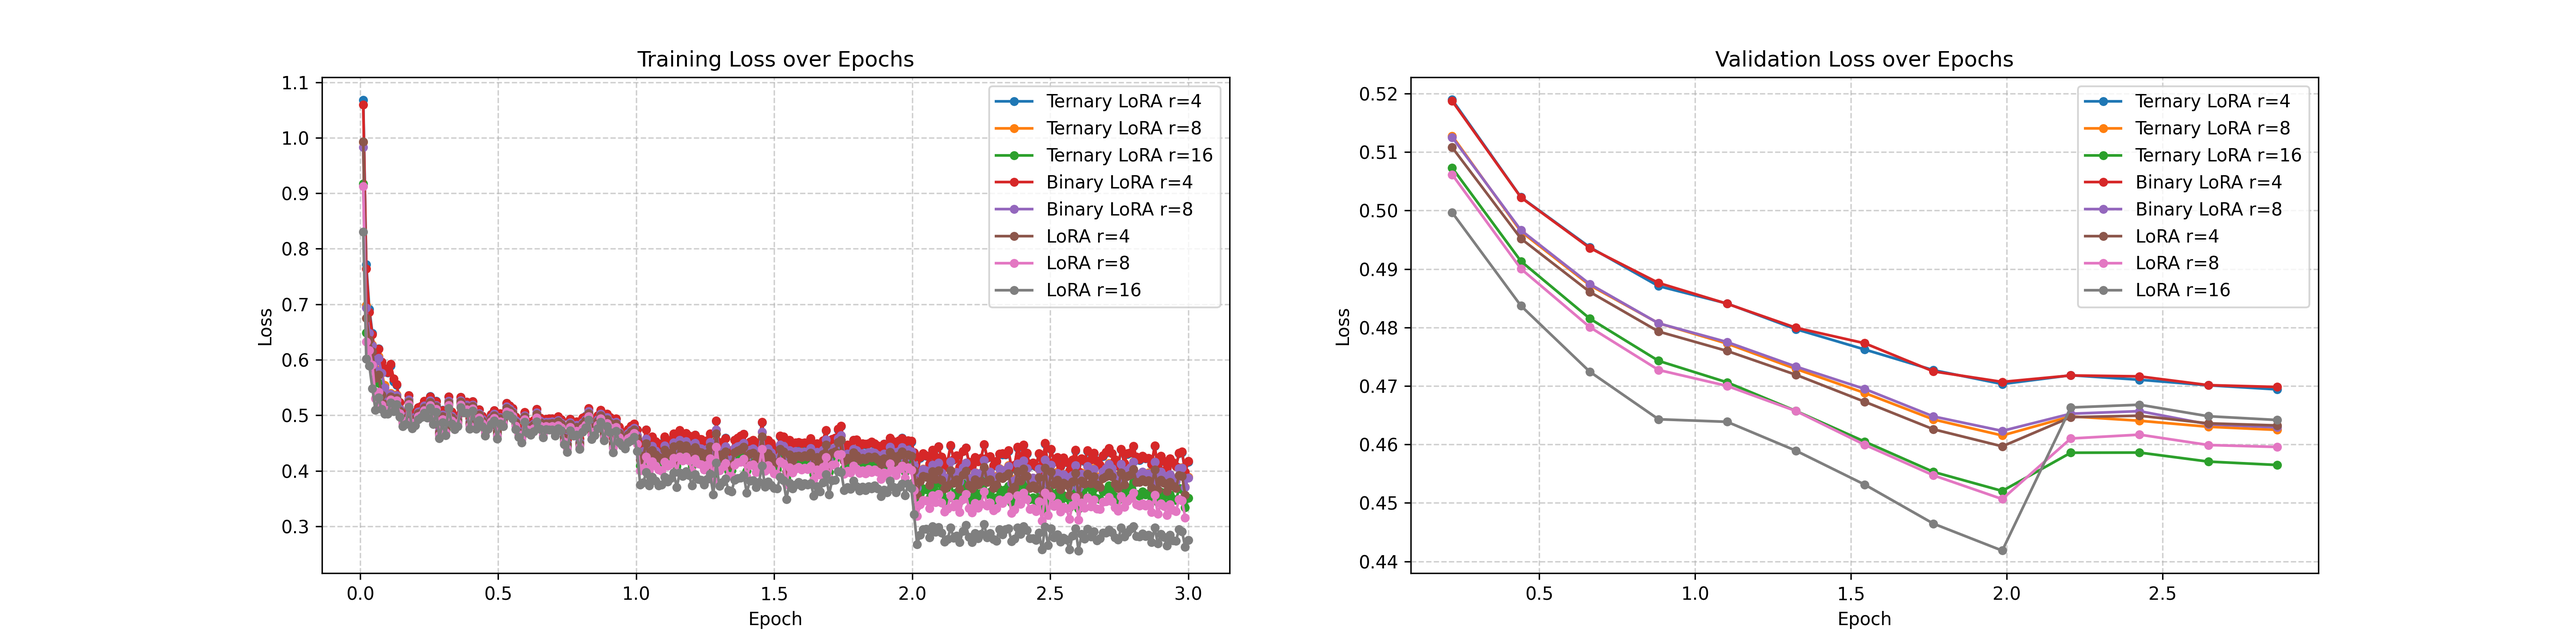
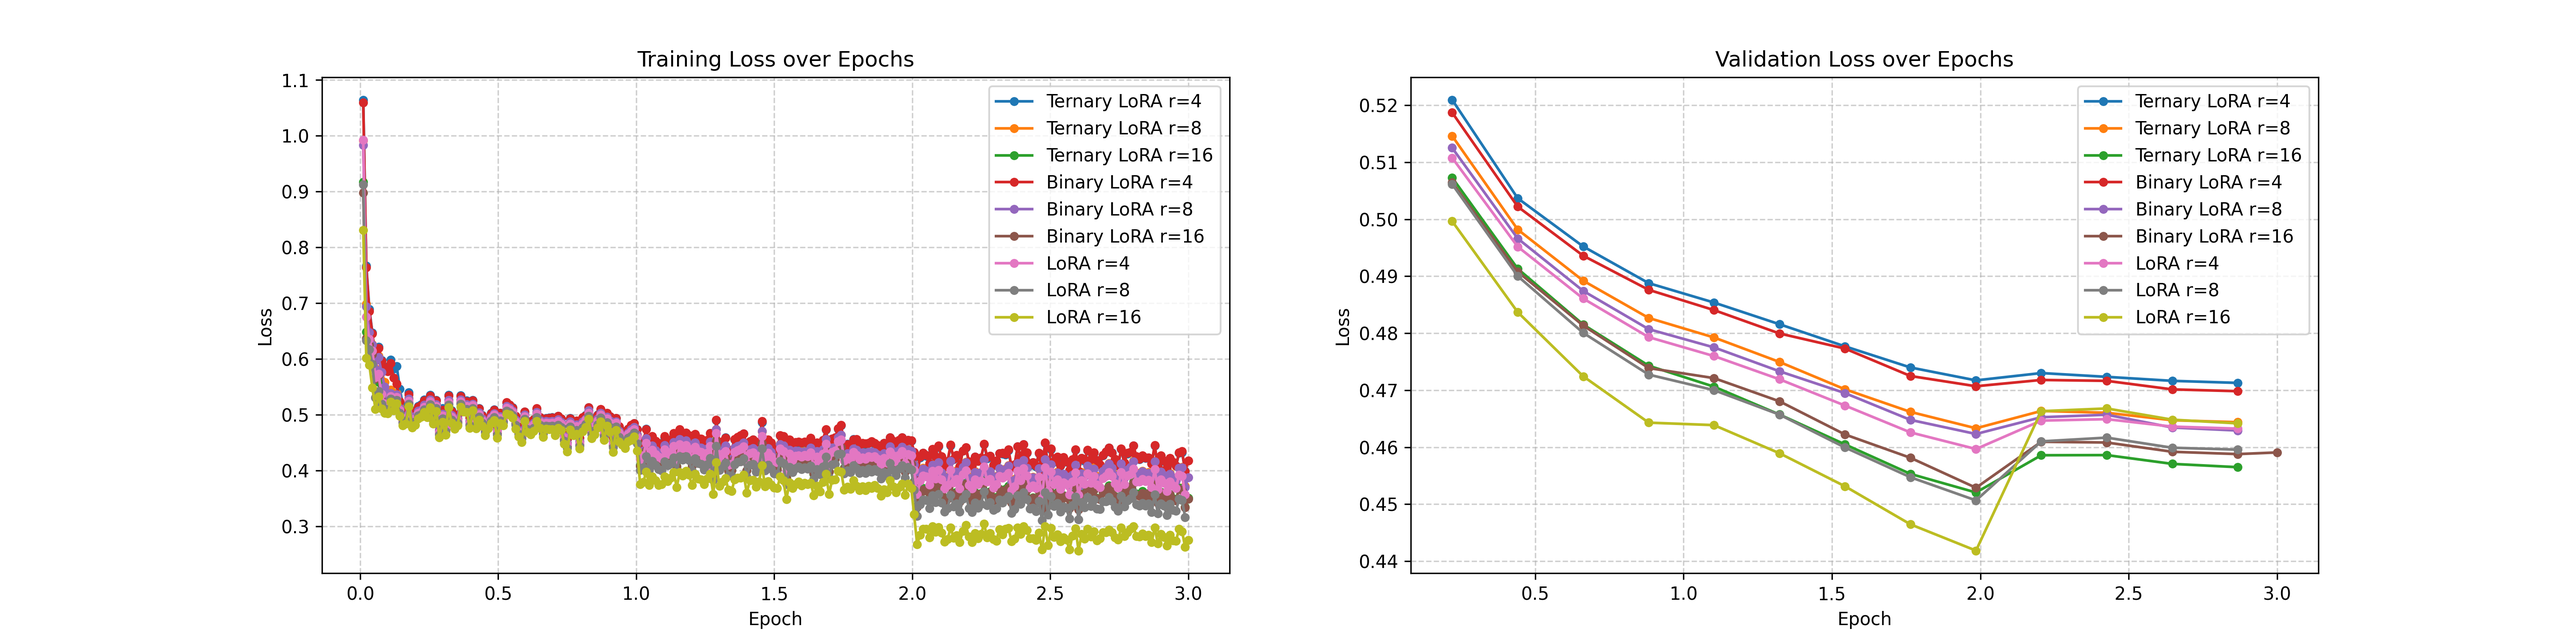
0330

diff --git a/binary.py b/binary.py
@@ -1,41 +1,166 @@
+# import torch
+# import os
+# from safetensors.torch import load_file
+
+# def pack_binary_1bit(tensor):
+#     gamma = tensor.abs().mean().item()
+    
+#     bits = (tensor > 0).to(torch.uint8).flatten()
+    
+#     if len(bits) % 8 != 0:
+#         padding = 8 - (len(bits) % 8)
+#         bits = torch.cat([bits, torch.zeros(padding, dtype=torch.uint8)])
+    
+#     packed = (
+#         (bits[0::8] << 7) | (bits[1::8] << 6) | (bits[2::8] << 5) | (bits[3::8] << 4) |
+#         (bits[4::8] << 3) | (bits[5::8] << 2) | (bits[6::8] << 1) | (bits[7::8])
+#     )
+    
+#     return packed, gamma
+
+# path = "./experiments/llama-3b-binary-r16/checkpoint-2721/adapter_model.safetensors"
+# weights = load_file(path)
+
+# total_binary_data = b""
+# scale_factors = []
+
+# for name, tensor in weights.items():
+#     if "lora_" in name:
+#         packed_w, g = pack_binary_1bit(tensor)
+#         total_binary_data += packed_w.numpy().tobytes()
+#         scale_factors.append(g)
+
+# # 파일 저장
+# save_name = "binary_model.bin"
+# with open(save_name, "wb") as f:
+#     f.write(total_binary_data)
+#     f.write(torch.tensor(scale_factors, dtype=torch.float32).numpy().tobytes())
+
+# # 용량 확인
+# size_bytes = os.path.getsize(save_name)
+# print(f"MB: {size_bytes / (1024**2):.2f} MB")
+
+
 import torch
 import os
 from safetensors.torch import load_file
 
 def pack_binary_1bit(tensor):
+    """1비트 패킹: Tensor -> uint8 Packed Tensor, Gamma, Shape"""
+    original_shape = tensor.shape
+    numel = tensor.numel()
+    
     gamma = tensor.abs().mean().item()
     
+    # 0보다 크면 1, 아니면 0
     bits = (tensor > 0).to(torch.uint8).flatten()
     
+    # 8비트 단위 패딩
+    padding = 0
     if len(bits) % 8 != 0:
         padding = 8 - (len(bits) % 8)
         bits = torch.cat([bits, torch.zeros(padding, dtype=torch.uint8)])
     
+    # 비트 패킹
     packed = (
         (bits[0::8] << 7) | (bits[1::8] << 6) | (bits[2::8] << 5) | (bits[3::8] << 4) |
         (bits[4::8] << 3) | (bits[5::8] << 2) | (bits[6::8] << 1) | (bits[7::8])
     )
     
-    return packed, gamma
+    return packed, gamma, original_shape, numel
 
-path = "./experiments/llama-3b-binary-r8/checkpoint-2721/adapter_model.safetensors"
+def unpack_binary_1bit(packed, gamma, shape, numel):
+    """복구: uint8 Packed Tensor -> 원본 모양의 Tensor"""
+    # 1. 비트 풀기 (Unpacking)
+    bits = []
+    for i in range(7, -1, -1):
+        bits.append((packed >> i) & 1)
+    
+    # (8, N) -> (N, 8) -> Flat
+    unpacked_bits = torch.stack(bits, dim=1).flatten()
+    
+    # 2. 패딩 제거
+    unpacked_bits = unpacked_bits[:numel]
+    
+    # 3. 값 복원: 1은 +gamma, 0은 -gamma
+    reconstructed = torch.where(unpacked_bits > 0, 
+                                torch.tensor(gamma, dtype=torch.float32), 
+                                torch.tensor(-gamma, dtype=torch.float32))
+    
+    return reconstructed.reshape(shape)
+
+
+
+# --- 1. 압축 및 저장 단계 ---
+path = "./experiments/llama-3b-binary-r16/checkpoint-2721/adapter_model.safetensors"
 weights = load_file(path)
 
-total_binary_data = b""
-scale_factors = []
+save_data = {}
+print("압축 중...")
 
 for name, tensor in weights.items():
     if "lora_" in name:
-        packed_w, g = pack_binary_1bit(tensor)
-        total_binary_data += packed_w.numpy().tobytes()
-        scale_factors.append(g)
+        packed_w, g, shape, numel = pack_binary_1bit(tensor)
+        save_data[name] = {
+            "packed": packed_w,
+            "gamma": g,
+            "shape": shape,
+            "numel": numel
+        }
 
 # 파일 저장
-save_name = "binary_model.bin"
-with open(save_name, "wb") as f:
-    f.write(total_binary_data)
-    f.write(torch.tensor(scale_factors, dtype=torch.float32).numpy().tobytes())
+torch.save(save_data, "my_compressed_model.bin")
+print(f"저장 완료: {os.path.getsize('my_compressed_model.bin') / 1024**2:.2f} MB")
 
-# 용량 확인
-size_bytes = os.path.getsize(save_name)
-print(f"MB: {size_bytes / (1024**2):.2f} MB")
+# --- 2. 복구 및 비교 단계 ---
+print("\n복구 및 검증 시작...")
+loaded_data = torch.load("my_compressed_model.bin")
+
+print(f"{'Layer Name':<60} | {'Orig Gamma':<10} | {'Recon Val':<10} | {'MAE':<10}")
+print("-" * 100)
+
+for name, data in loaded_data.items():
+    # 1. 복구 수행
+    recon = unpack_binary_1bit(data['packed'], data['gamma'], data['shape'], data['numel'])
+    orig = weights[name].to(torch.float32) # 정밀한 비교를 위해 float32 변환
+    
+    # 2. 스케일 확인
+    orig_gamma = orig.abs().mean().item()
+    recon_val = data['gamma'] # 우리가 저장했던 gamma 값
+    
+    # 3. 전체적인 복구 오차 (Mean Absolute Error)
+    # 1비트 양자화는 손실이 클 수밖에 없지만, 스케일이 맞는지 보는 지표입니다.
+    mae = torch.mean(torch.abs(orig - recon)).item()
+    
+    # 출력 (소수점 6자리까지)
+    print(f"{name[:60]:<60} | {orig_gamma:.6f} | {recon_val:.6f} | {mae:.6f}")
+
+    # 스케일 정밀도 체크 (부동소수점 오차 감안)
+    if abs(orig_gamma - recon_val) > 1e-7:
+        print(f"⚠ {name}: 스케일 미세 불일치 발생!")
+
+print("-" * 100)
+print("검증 완료.")
+
+all_match = True
+for name, data in loaded_data.items():
+    # 복구 수행
+    recon = unpack_binary_1bit(data['packed'], data['gamma'], data['shape'], data['numel'])
+    
+    # 원본 가져오기
+    orig = weights[name]
+    
+    # 1비트 양자화 특성상 '부호'가 같으면 성공입니다.
+    orig_sign = (orig > 0)
+    recon_sign = (recon > 0)
+    
+    mismatch = torch.sum(orig_sign != recon_sign).item()
+    
+    if mismatch == 0:
+        print(f"✅ {name}: 복구 성공 (부호 일치)")
+    else:
+        print(f"❌ {name}: 복구 실패 ({mismatch}개 비트 다름)")
+        all_match = False
+
+if all_match:
+    print("\n✨ 모든 가중치가 성공적으로 복구되었습니다!")

diff --git a/loss.py b/loss.py
@@ -10,6 +10,7 @@ ternary_paths = [
 binary_paths = [
     "experiments/llama-3b-binary-r4/checkpoint-2721/trainer_state.json",
     "experiments/llama-3b-binary-r8/checkpoint-2721/trainer_state.json",
+    "experiments/llama-3b-binary-r16/checkpoint-2721/trainer_state.json",
 ]
 
 fp16_paths = [

diff --git a/README.md b/README.md
@@ -48,7 +48,7 @@ python ./train.py --adapter_type fp32 --r 8 --epochs 3
 | **Ternary Adapter (r=16)**| 0.751 | 0.452 | -- | --    | 5.79 | -- |
 | **Binary Adapter (r=4)**  | 0.188 | 0.471 | -- | --    | 0.73 | -- |
 | **Binary Adapter (r=8)**  | 0.377 | 0.462 | -- | --    | 1.45 | -- |
-| **Binary Adapter (r=16)** | 0.751 | --    | -- | --    | 2.89 | -- |
+| **Binary Adapter (r=16)** | 0.751 | 0.453 | -- | --    | 2.89 | -- |
 
 - fp32: `adapter_model.safetensors`
 - ternary(2bit packing): `ternary_model.bin`
